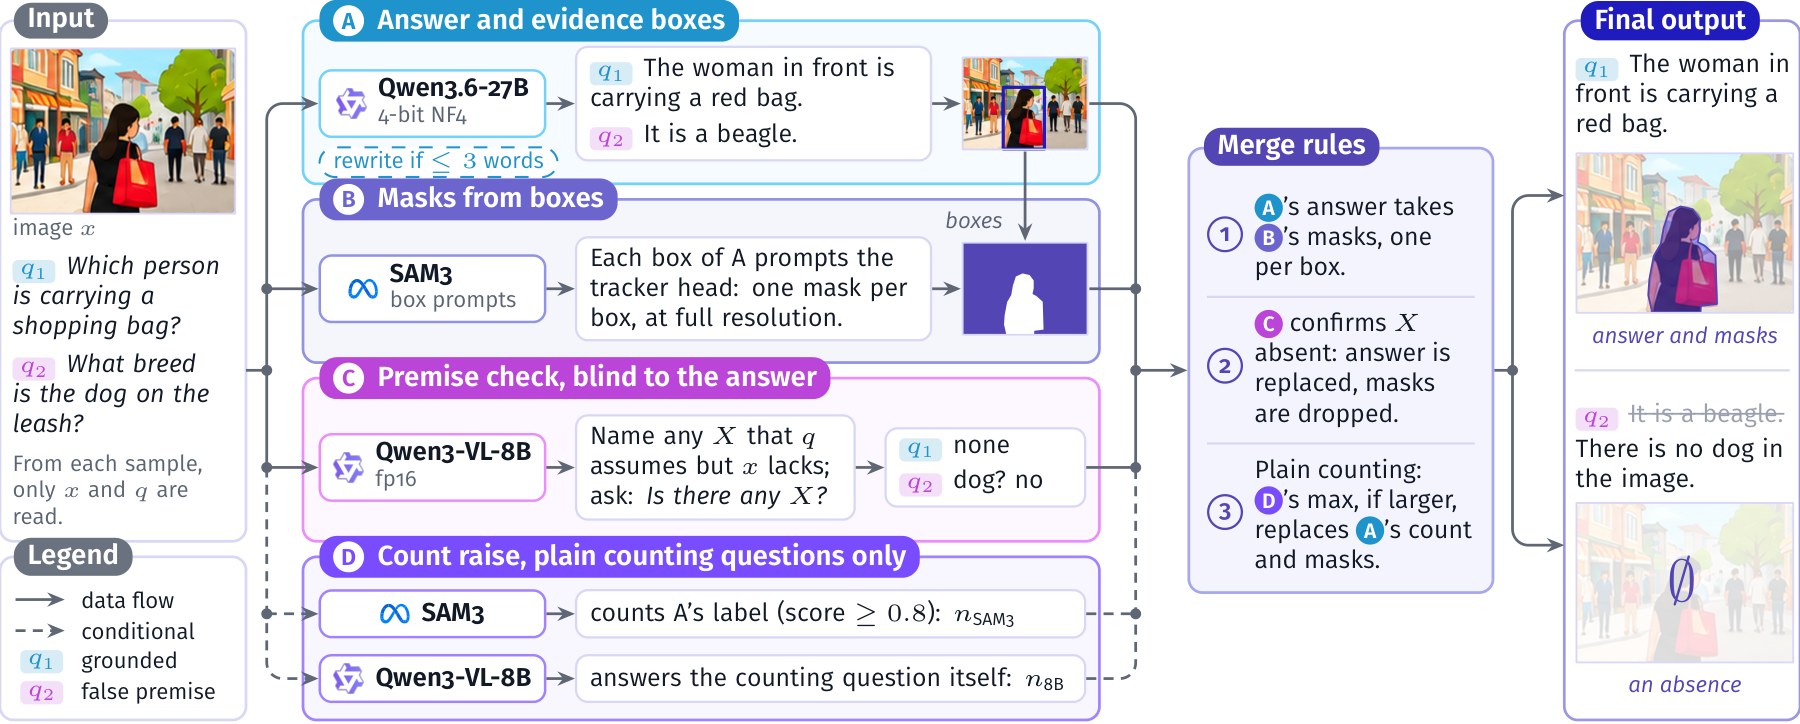
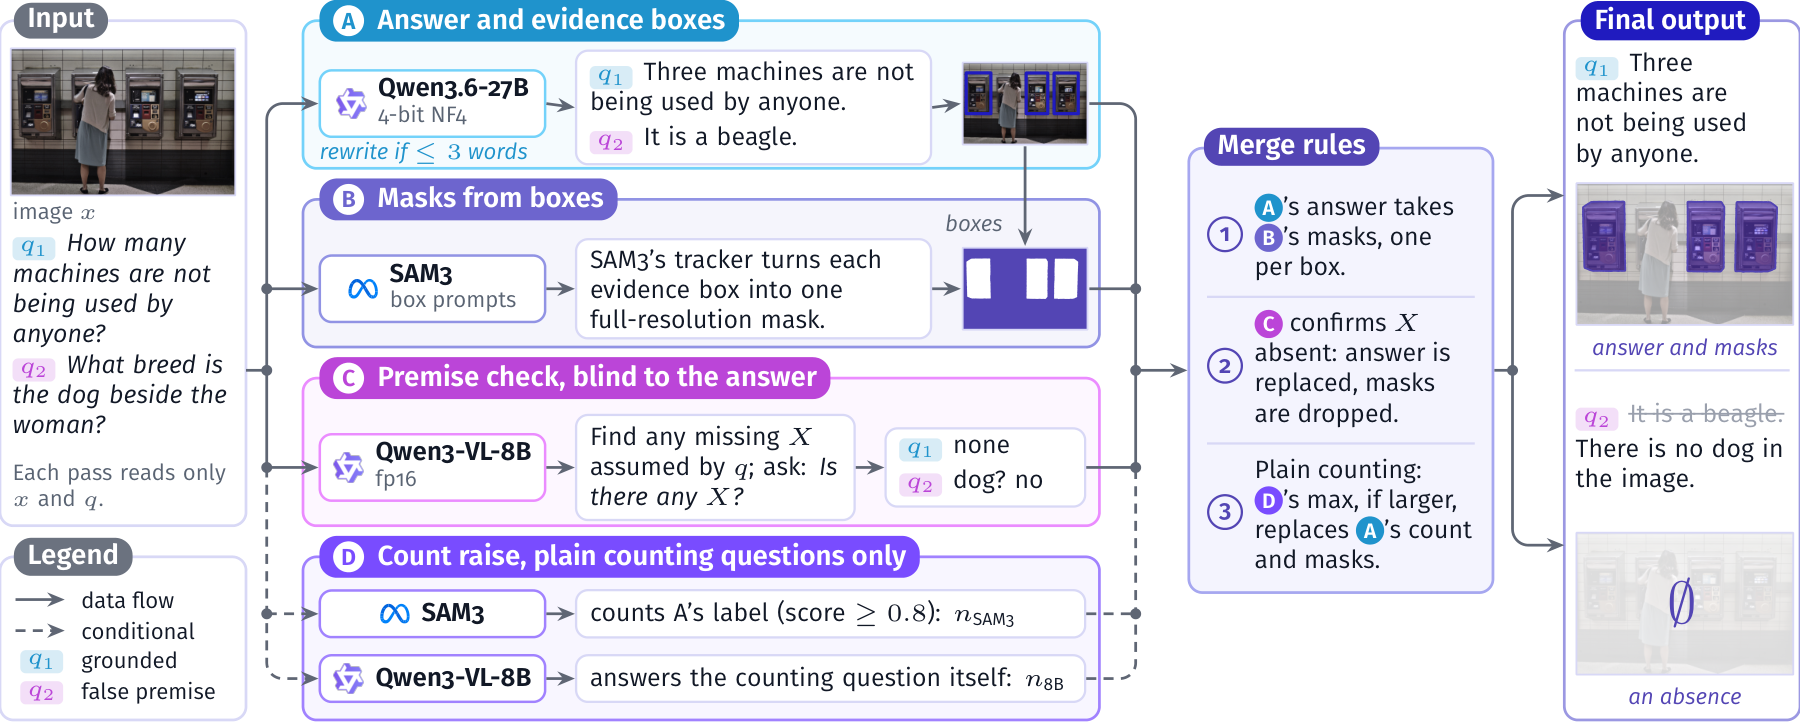
New pipeline figure in the README; fix a broken table in EXPERIMENTS.md
- images/pipeline.png: the paper's redesigned Figure 1, now on VistaQA
  sample 811 with the entry's saved answer and masks.
- README.md: the figure's caption and alt text describe the new image and
  credit it (CC BY 4.0); the protocol note follows the paper's appendix on
  post-development illustration; the license note covers the new image.
- EXPERIMENTS.md: remove a stray blank line that split the proxy-dev runs
  table, so its last 34 rows render as table rows again. No text changed.

diff --git a/README.md b/README.md
@@ -26,10 +26,10 @@ Our system is a training-free chain of open-weight models that separates three j
 
 <p align="center">
   <a href="images/pipeline.png">
-    <img src="images/pipeline.png" alt="Pipeline diagram. An input image and two questions feed four lanes: A, Qwen3.6-27B answers and boxes its evidence; B, SAM3 turns each box into a mask; C, Qwen3-VL-8B checks the premise without seeing the answer; D, SAM3 and Qwen3-VL-8B count on plain counting questions. Three merge rules produce the final output: an answer with masks for the grounded question, and 'There is no dog in the image' with no masks for the false-premise one." width="900">
+    <img src="images/pipeline.png" alt="Pipeline diagram. A VistaQA photo of a woman at a row of ticket machines and two questions feed four lanes: A, Qwen3.6-27B answers and boxes its evidence; B, SAM3 turns each box into a mask; C, Qwen3-VL-8B checks the premise without seeing the answer; D, SAM3 and Qwen3-VL-8B count on plain counting questions. Three merge rules produce the final output: 'Three machines are not being used by anyone.' with a mask on each unused machine for the grounded question, and 'There is no dog in the image.' with no masks for the false-premise one." width="900">
   </a>
   <br>
-  <sub><strong>The zero-shot pipeline.</strong> Only the image and the question are read. (A) Qwen3.6-27B answers and boxes its evidence, (B) SAM3 turns each box into a mask, (C) Qwen3-VL-8B, blind to the answer, names anything the question assumes but the image lacks and confirms it with a yes/no question, and (D) on plain counting questions, SAM3 and the 8B may raise an under-counted answer. Three merge rules turn the passes into an answer with masks, or a stated absence with none. From the paper.</sub>
+  <sub><strong>The zero-shot pipeline.</strong> Only the image and the question are read. (A) Qwen3.6-27B answers and boxes its evidence, (B) SAM3 turns each box into a mask, (C) Qwen3-VL-8B, blind to the answer, names anything the question assumes but the image lacks and confirms it with a yes/no question, and (D) on plain counting questions, SAM3 and the 8B may raise an under-counted answer. Three merge rules turn the passes into an answer with masks, or a stated absence with none. The image and the counting question <em>q</em><sub>1</sub> are VistaQA sample 811 (CC BY 4.0), shown with the entry's saved answer and masks; <em>q</em><sub>2</sub> and its outputs are illustrative. From the paper.</sub>
 </p>
 
 ## Contents
@@ -109,7 +109,7 @@ The VistaQA paper reports ε = 0.1, and the [official evaluation code](https://g
 - **VistaQA was used for final evaluation only.** No VistaQA sample, label, or mask informed any design decision, and at inference each pass reads only the image and the question.
 - **The entry was registered before VistaQA was first scored.** The frozen configuration (73.81 on the proxy) was committed before VistaQA evaluation, and its predictions before judging; see the FINAL section of [`EXPERIMENTS.md`](EXPERIMENTS.md). The only later change was a formatting fix, made before scoring: three masks were resized to the declared size of two VistaQA images whose files are smaller than their metadata says.
 - **The harness was checked before any system was scored.** The ground truth, submitted as a prediction, scores 100.00. Moving each answer to the next sample gives 1.21% text accuracy and a GROVE of 11.09, as the formula predicts.
-- **Every later VistaQA run is analysis.** Each was registered in [`EXPERIMENTS.md`](EXPERIMENTS.md) before its single VistaQA run, and none replaces the entry. No VistaQA sample was inspected individually for development; the later systems were prompted by the entry's aggregate scores only. The six qualitative panels below are the only VistaQA samples we inspected individually; a seeded rule drew them after development closed.
+- **Every later VistaQA run is analysis.** Each was registered in [`EXPERIMENTS.md`](EXPERIMENTS.md) before its single VistaQA run, and none replaces the entry. No VistaQA sample was inspected individually for development; the later systems were prompted by the entry's aggregate scores only. The six qualitative panels below were drawn after development closed, by a seeded rule registered before any sample was viewed. Any further image inspection, including choosing the image in the pipeline figure, was for post-development illustration only and did not inform the system.
 
 Commit hashes cited in [`EXPERIMENTS.md`](EXPERIMENTS.md) refer to our private development repository. Its history holds account details, so this public copy starts a fresh history; we can show the original commits to the organizers on request.
 
@@ -455,4 +455,4 @@ Citation details will be added once the system report is released.
 
 ## License
 
-The code, configurations, run log, predictions, and evaluation outputs are released under the [MIT License](LICENSE). The questions, image ids, and task, domain, and question-type labels in the outputs come from VistaQA ([`mozhina/VistaQA`](https://huggingface.co/datasets/mozhina/VistaQA), CC BY 4.0). No VistaQA images, ground-truth answers, or masks are included, except for the six samples reproduced under that license in [`images/qualitative.png`](images/qualitative.png). Model weights are downloaded at run time and are not included (Qwen: Apache-2.0; SAM3: SAM License).
+The code, configurations, run log, predictions, and evaluation outputs are released under the [MIT License](LICENSE). The questions, image ids, and task, domain, and question-type labels in the outputs come from VistaQA ([`mozhina/VistaQA`](https://huggingface.co/datasets/mozhina/VistaQA), CC BY 4.0). No VistaQA images, ground-truth answers, or masks are included, except for the six samples in [`images/qualitative.png`](images/qualitative.png) and the image and question of sample 811 in [`images/pipeline.png`](images/pipeline.png), reproduced under that license. Model weights are downloaded at run time and are not included (Qwen: Apache-2.0; SAM3: SAM License).

diff --git a/EXPERIMENTS.md b/EXPERIMENTS.md
@@ -25,7 +25,6 @@ Built by `python src/build_proxy_dev.py` (seed 0). `devall-X` = merge of `dev-X`
 | dev-ts-q3vl8b | Qwen3-VL-8B, **two_stage** (reason_v1 → native GROUND per target) | K01,K02,K09 | 58.56 | 65.0 | 67.6 | 38 s/it. halluc 53.3→64.2, comparison mIoU 50→71 (boxes both objects), but spatial text 74→34% (terse "right"), ocr mIoU 65→46 |
 | dev-tsv-q3vl8b | two_stage + **verify** (yes/no existence per target) | K07,K08,K11 | 57.41 | 64.8 | 65.9 | verify ≈ no-op on halluc (model says yes to its own targets), hurts counting |
 | dev-tsv-q3vl4b | Qwen3-VL-4B two_stage + verify | K16,K17 | 50.20 | 58.0 | 64.7 | 8.5 s/it. halluc 64.5 (text 72%); comparison/spatial text 17% (terse) |
-
 | dev-es-q3vl8b | 8B v0 + expand_short | K01,K02,K09 | **62.31** | 71.6 | 64.3 | +3.7 over v0 58.60 (296/560 answers were ≤3 words) |
 | prem-q3vl8b | 8B premise check only (`premise: "only"`) | K07,K08 | — | | | halluc caught 148/150 but flags 105/410 grounded; **+ yes/no confirm: 138/150, 17/410 false** |
 | prem-q36-27b | 27B premise check only | K12..K15 | — | | | 142/150, 57 false; + confirm 135/150, 36 false (27B says "no" too easily) |
